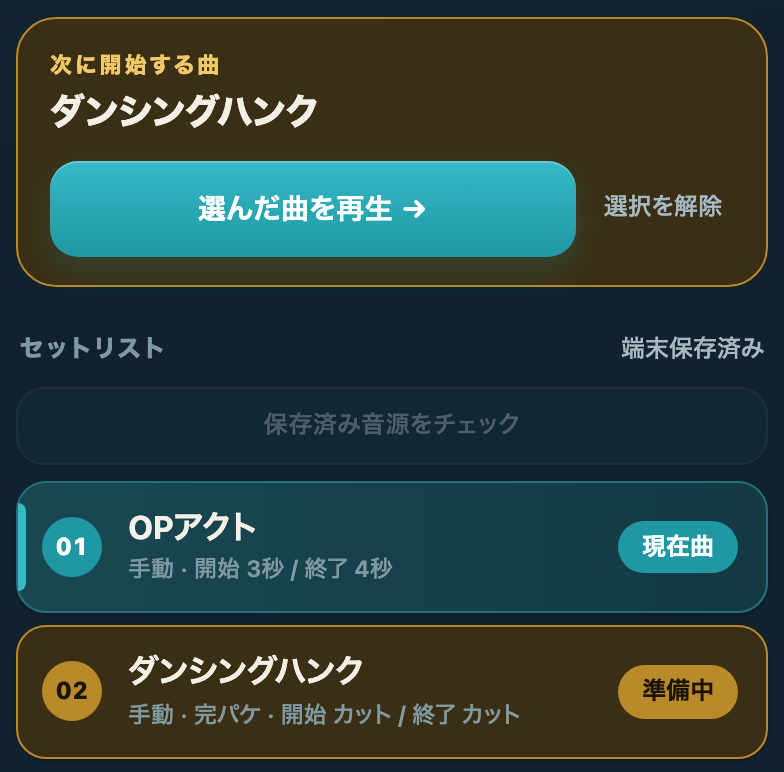
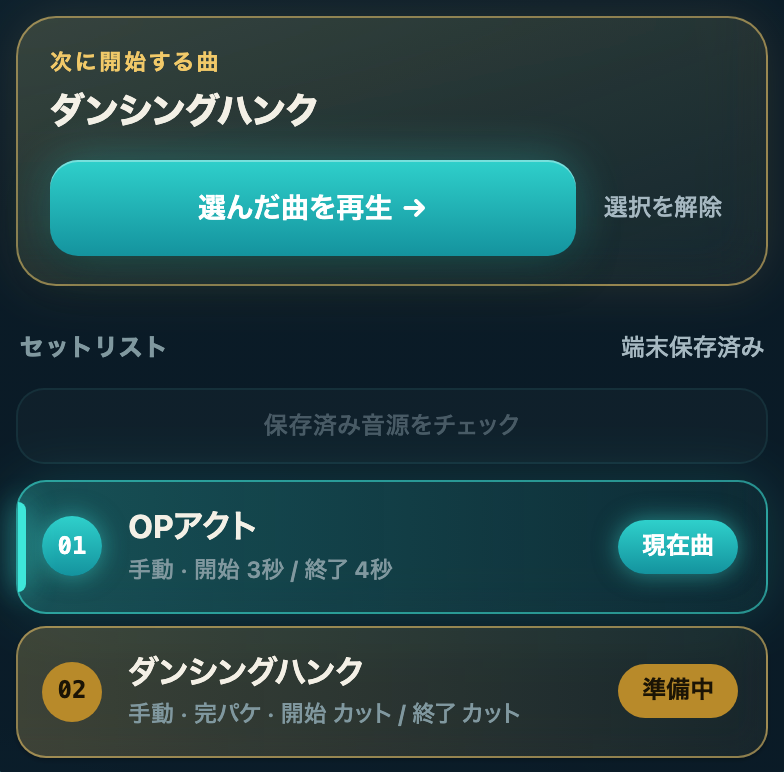
Futuristic glass/glow visual layer, release v118

diff --git a/player.css b/player.css
@@ -246,3 +246,73 @@ footer{font-size:11px;font-weight:600;color:var(--faint);letter-spacing:2.4px;te
  .seconds input[type=number]{width:76px}
  .mode-toggle.seg .opt{min-width:68px;padding:0 10px}
 }
+
+/* ===== futuristic layer (v118): glass panels, cyan glow, hairline borders, mono numerals. Visual only. ===== */
+:root{--cyan:#3ee7da;--cyan-soft:rgba(62,231,218,.14);--glass:rgba(14,34,46,.58);--glass-hi:rgba(255,255,255,.06);--hair:rgba(98,222,220,.22);--hair-strong:rgba(62,231,218,.55);--mono:ui-monospace,"SF Mono",SFMono-Regular,Menlo,Consolas,monospace}
+body:has(#edit:not([hidden])){--glass:rgba(34,56,72,.62);--hair:rgba(130,224,224,.26)}
+body{background:radial-gradient(900px 620px at 90% -10%,rgba(36,206,200,.22),transparent 62%),radial-gradient(820px 640px at -12% 108%,rgba(40,120,210,.20),transparent 60%),var(--bg)}
+body::before{content:"";position:fixed;inset:0;z-index:0;pointer-events:none;background-image:linear-gradient(rgba(130,230,230,.045) 1px,transparent 1px),linear-gradient(90deg,rgba(130,230,230,.045) 1px,transparent 1px);background-size:46px 46px;-webkit-mask-image:radial-gradient(ellipse 80% 60% at 55% 28%,#000 15%,transparent 78%);mask-image:radial-gradient(ellipse 80% 60% at 55% 28%,#000 15%,transparent 78%)}
+main{position:relative;z-index:1}
+/* glass surfaces */
+.panel,.order-panel,.edit-card,.tabs,.banner,.notice,.audio-drop-zone{background:linear-gradient(160deg,var(--glass-hi),rgba(255,255,255,.015)),var(--glass);border:1px solid var(--hair);-webkit-backdrop-filter:blur(16px) saturate(1.35);backdrop-filter:blur(16px) saturate(1.35);box-shadow:inset 0 1px 0 var(--glass-hi),0 14px 38px rgba(0,0,0,.34)}
+.banner.ready{background:linear-gradient(160deg,rgba(62,231,218,.20),rgba(62,231,218,.07));border-color:var(--hair-strong);color:#9af3ec;box-shadow:0 0 22px rgba(62,231,218,.14),inset 0 1px 0 var(--glass-hi)}
+.notice.error{background:linear-gradient(160deg,rgba(255,120,130,.22),rgba(255,120,130,.08));border-color:rgba(255,143,150,.5)}
+.live-player{background:linear-gradient(168deg,rgba(26,66,84,.74) 0%,rgba(10,28,40,.82) 62%);border:1px solid rgba(86,226,220,.30);-webkit-backdrop-filter:blur(18px) saturate(1.3);backdrop-filter:blur(18px) saturate(1.3);box-shadow:0 0 0 1px rgba(62,231,218,.05),0 0 70px rgba(36,200,196,.12),0 26px 64px rgba(0,0,0,.52),inset 0 1px 0 rgba(255,255,255,.08)}
+.live-player::before{height:2px;background:linear-gradient(90deg,transparent 0%,var(--cyan) 35%,#7ff3ff 60%,transparent 100%);box-shadow:0 0 16px var(--cyan);opacity:.9}
+.live-player h1{text-shadow:0 0 30px rgba(62,231,218,.28)}
+/* numerals and small labels */
+.times,.eyebrow,.track .num,.edit-card-header h3,.seconds input[type=number]{font-family:var(--mono)}
+.eyebrow{letter-spacing:2.4px;color:var(--cyan)}
+.panel-title,.section-heading h2,.order-panel h2{text-transform:uppercase;letter-spacing:2px}
+.times{font-size:13px;letter-spacing:.5px}
+/* tabs + nav */
+.tabs{border-radius:16px}
+.tabs .selected{background:linear-gradient(180deg,rgba(62,231,218,.34),rgba(31,152,164,.30));color:#ecfffd;box-shadow:0 0 0 1px var(--hair-strong),0 0 22px rgba(62,231,218,.30),inset 0 1px 0 rgba(255,255,255,.18)}
+.tabs button:hover:not(.selected){background:rgba(255,255,255,.06)}
+/* state chip glow */
+#state[data-state=playing],#state[data-state=fadingIn],#state[data-state=starting]{background:rgba(62,231,218,.14);border-color:var(--hair-strong);color:#8ff1ea;box-shadow:0 0 16px rgba(62,231,218,.28)}
+#state[data-state=playing]::before,#state[data-state=fadingIn]::before,#state[data-state=starting]::before{background:var(--cyan);box-shadow:0 0 8px var(--cyan)}
+/* seek bar */
+.seek-slider::-webkit-slider-runnable-track{background:linear-gradient(90deg,#127f8c,var(--cyan) var(--p),rgba(255,255,255,.14) var(--p));box-shadow:0 0 12px rgba(62,231,218,.22)}
+.seek-slider::-moz-range-progress{background:var(--cyan)}
+.seek-slider::-webkit-slider-thumb{background:#eafffd;border:3px solid var(--cyan);box-shadow:0 0 14px rgba(62,231,218,.8),0 2px 8px rgba(0,0,0,.5)}
+.seek-slider::-moz-range-thumb{background:#eafffd;border:3px solid var(--cyan);box-shadow:0 0 14px rgba(62,231,218,.8)}
+/* transport: ring-style buttons */
+.transport button{background:rgba(255,255,255,.04);color:#e4fbf8;box-shadow:inset 0 0 0 1.5px rgba(120,226,224,.45),0 0 20px rgba(62,231,218,.12),0 8px 18px rgba(0,0,0,.4)}
+.transport button:hover:not(:disabled){background:rgba(62,231,218,.12);box-shadow:inset 0 0 0 1.5px var(--hair-strong),0 0 24px rgba(62,231,218,.28)}
+.transport button.central{background:radial-gradient(circle at 50% 30%,rgba(62,231,218,.34),rgba(7,38,48,.95) 72%);color:#9af7f0;box-shadow:inset 0 0 0 2.5px rgba(86,236,226,.9),0 0 0 9px rgba(62,231,218,.10),0 0 44px rgba(62,231,218,.50),0 20px 44px rgba(0,0,0,.55)}
+.transport button.central:hover:not(:disabled){background:radial-gradient(circle at 50% 30%,rgba(62,231,218,.46),rgba(7,44,54,.95) 72%)}
+.hint b{color:#8ff1ea;text-shadow:0 0 14px rgba(62,231,218,.35)}
+/* buttons */
+.primary{background:linear-gradient(180deg,#2fd0cb 0%,#14939e 100%);color:#fff;box-shadow:inset 0 1px 0 rgba(255,255,255,.35),0 0 24px rgba(62,231,218,.32),0 8px 20px rgba(0,0,0,.35)}
+.primary:hover:not(:disabled){background:linear-gradient(180deg,#46e2dc 0%,#18a3ae 100%)}
+.secondary{background:rgba(255,255,255,.05);box-shadow:inset 0 0 0 1px var(--hair)}
+.secondary:hover:not(:disabled){background:rgba(62,231,218,.10);box-shadow:inset 0 0 0 1px var(--hair-strong)}
+#go[data-ready=true]{background:linear-gradient(160deg,rgba(62,231,218,.22),rgba(62,231,218,.08));color:#9af3ec;box-shadow:inset 0 0 0 1.5px var(--hair-strong),0 0 24px rgba(62,231,218,.22)}
+/* setlist rows */
+.track{background:linear-gradient(160deg,rgba(255,255,255,.055),rgba(255,255,255,.015));border:1px solid var(--hair);-webkit-backdrop-filter:blur(10px);backdrop-filter:blur(10px)}
+.track-select:hover:not(:disabled){background:linear-gradient(160deg,rgba(62,231,218,.12),rgba(255,255,255,.03));border-color:var(--hair-strong)}
+.track.current{background:linear-gradient(90deg,rgba(62,231,218,.26) 0%,rgba(62,231,218,.07) 100%);border-color:var(--hair-strong);box-shadow:0 0 28px rgba(62,231,218,.16)}
+.track.current::before{background:var(--cyan);box-shadow:0 0 14px var(--cyan)}
+.track.current .num,.track.current .select-hint{background:linear-gradient(180deg,#2fd0cb,#14939e);box-shadow:0 0 12px rgba(62,231,218,.5)}
+#selectionPanel{background:linear-gradient(160deg,rgba(241,201,105,.20),rgba(241,201,105,.06));border-color:rgba(241,201,105,.55);box-shadow:0 0 26px rgba(241,201,105,.12)}
+.track-select.queued{background:linear-gradient(90deg,rgba(241,201,105,.22),rgba(241,201,105,.06));border-color:rgba(241,201,105,.55)}
+/* settings controls */
+.mode-toggle.seg{background:rgba(0,0,0,.28);box-shadow:inset 0 1px 4px rgba(0,0,0,.5),inset 0 0 0 1px var(--hair)}
+.mode-toggle.seg .opt.on{background:linear-gradient(180deg,rgba(62,231,218,.55),rgba(24,150,160,.55));color:#fff;box-shadow:0 0 0 1px var(--hair-strong),0 0 16px rgba(62,231,218,.35),inset 0 1px 0 rgba(255,255,255,.25)}
+.mode-toggle.active{background:rgba(62,231,218,.16);border-color:var(--hair-strong);color:#9af3ec;box-shadow:0 0 16px rgba(62,231,218,.22)}
+.seconds input[type=range]::-webkit-slider-runnable-track{background:linear-gradient(90deg,rgba(62,231,218,.28),rgba(255,255,255,.16))}
+.seconds input[type=range]::-webkit-slider-thumb{background:#eafffd;border:3px solid var(--cyan);box-shadow:0 0 14px rgba(62,231,218,.8)}
+.edit-card-header h3,.pill{box-shadow:0 0 12px rgba(62,231,218,.22)}
+.edit-card-header h3{background:linear-gradient(180deg,#2fd0cb,#14939e)}
+.order-handle,.order-step,.list-picker,.reuse-row select,.name-input,.track-name-input,.seconds input[type=number]{border-color:var(--hair)}
+.order-target{box-shadow:0 0 0 2px rgba(62,231,218,.5),0 0 20px rgba(62,231,218,.3)}
+.audio-drop-zone{border:1.5px dashed rgba(98,222,220,.45)}
+.manual-link{border-color:var(--hair-strong);background:rgba(62,231,218,.12);box-shadow:0 0 16px rgba(62,231,218,.2)}
+.logo{box-shadow:0 0 22px rgba(62,231,218,.5)}
+@media(min-width:900px){
+ main{background:linear-gradient(90deg,transparent 287px,rgba(62,231,218,.22) 287px,rgba(62,231,218,.22) 288px,transparent 288px),linear-gradient(90deg,rgba(4,12,18,.72) 288px,transparent 288px)}
+ .library-panel .tabs{background:none;border:0;box-shadow:none;-webkit-backdrop-filter:none;backdrop-filter:none}
+ .library-panel .side-list{background:none;border:0;box-shadow:none;-webkit-backdrop-filter:none;backdrop-filter:none}
+ .library-panel .tabs .selected{box-shadow:0 0 0 1px var(--hair-strong),0 0 22px rgba(62,231,218,.28),inset 0 1px 0 rgba(255,255,255,.18)}
+}

diff --git a/releases/v118/index.html b/releases/v118/index.html
@@ -1,0 +1,27 @@
+<!doctype html><html lang="ja"><head><base href="../../"><meta charset="utf-8"><meta name="viewport" content="width=device-width,initial-scale=1,viewport-fit=cover"><meta name="theme-color" content="#0a1620"><meta name="apple-mobile-web-app-capable" content="yes"><meta name="apple-mobile-web-app-status-bar-style" content="black"><title>SHOW PLAYER</title><link rel="manifest" href="manifest.webmanifest"><link rel="stylesheet" href="player.css?v=118"><link rel="icon" href="icon.svg"><link rel="apple-touch-icon" href="icon-192.png"></head><body><main>
+<header class="top"><div class="brand"><svg class="logo" viewBox="0 0 48 48" aria-hidden="true"><defs><linearGradient id="lg" x1="0" y1="0" x2="1" y2="1"><stop offset="0" stop-color="#23a0ac"/><stop offset="1" stop-color="#115f69"/></linearGradient></defs><rect width="48" height="48" rx="13" fill="url(#lg)"/><path d="M19 14.5v19a1.2 1.2 0 0 0 1.8 1l15.5-9.5a1.2 1.2 0 0 0 0-2L20.800 13.500a1.200 1.200 0 0 0-1.800 1z" fill="#f3f0e8"/></svg><b>SHOW PLAYER</b></div><span class="pill version">1.1.0</span></header>
+<div class="app-grid"><aside class="library-panel"><div class="tabs"><button id="liveTab" class="selected"><svg viewBox="0 0 24 24" aria-hidden="true"><path d="M8 5.2v13.6a1 1 0 0 0 1.5.86l11-6.8a1 1 0 0 0 0-1.72l-11-6.8A1 1 0 0 0 8 5.2z"/></svg>本番画面</button><button id="editTab"><svg viewBox="0 0 24 24" aria-hidden="true"><path d="M4 7h9M19 7h1M4 17h1M11 17h9" fill="none" stroke="currentColor" stroke-width="2" stroke-linecap="round"/><circle cx="16" cy="7" r="2.6" fill="none" stroke="currentColor" stroke-width="2"/><circle cx="8" cy="17" r="2.6" fill="none" stroke="currentColor" stroke-width="2"/></svg>曲・フェード設定</button></div>
+<div class="side-list panel"><label class="panel-title" for="listPicker">セットリスト</label><select id="listPicker" class="list-picker"></select>
+<p id="listVersion" class="small muted"></p>
+<div class="library-actions"><button id="newList" class="secondary">＋ 新規</button><button id="duplicateList" class="secondary">複製</button><button id="deleteList" class="text-danger">削除</button></div>
+</div>
+</aside><div class="workspace"><div id="engineNote" class="banner" hidden></div><div id="offlineStatus" class="banner" role="status">オフライン準備を確認しています…</div>
+<div id="notice" class="notice" role="status">音源を追加して始めてください。</div>
+<section id="live" class="live-player"><div class="preparation" aria-label="本番前の準備"><span id="prepSaved">○ 音源・設定保存</span><span id="prepOffline">○ 画面のオフライン保存</span><span id="prepRemote">○ GO準備</span></div>
+<div class="title-row"><span id="number" class="eyebrow">00 / 00</span><span id="state" class="pill">音源なし</span></div>
+<h1 id="title">音源を選んでください</h1><p id="nextTitle" class="muted">次の曲：—</p>
+<input id="seek" class="seek-slider" type="range" min="0" max="0" step="0.01" value="0" aria-label="再生位置" disabled><p id="seekHint" class="small muted"></p><div class="progress" hidden><div id="progressBar"></div></div><div class="times"><span id="position">0:00</span><span id="duration">0:00</span></div>
+<div class="transport"><button id="previous" class="skip" aria-label="曲頭・前曲"><svg viewBox="0 0 24 24" aria-hidden="true"><path d="M6 5h2.4v14H6zM19 5v14L9 12z"/></svg></button><button id="central" class="central" aria-label="再生・一時停止">▶</button><button id="next" class="skip" aria-label="フェードアウト・次曲"><svg viewBox="0 0 24 24" aria-hidden="true"><path d="M15.6 5H18v14h-2.4zM5 5v14l10-7z"/></svg></button></div>
+<div class="hint"><b id="nextHint">右：再生を開始</b><p id="fadeStatus"></p></div>
+<div class="action-row"><button id="stop" class="secondary"><svg viewBox="0 0 24 24" aria-hidden="true"><rect x="6" y="6" width="12" height="12" rx="2.4"/></svg>停止して曲頭へ</button><button id="go" class="primary">GO · 音を出さずに準備</button></div>
+<div class="remote-row"><button id="releaseRemote" class="text-button">リモコン準備を解除</button><span id="remoteStatus" class="small muted"></span></div>
+<div id="selectionPanel" class="panel" hidden><p class="eyebrow">次に開始する曲</p><h2 id="selectedTitle"></h2><div class="selection-actions"><button id="activateSelected" class="primary">選んだ曲を再生 →</button><button id="cancelSelected" class="text-button">選択を解除</button></div></div>
+<div class="section-heading"><h2>セットリスト</h2><span id="saveStatus" class="small muted">未保存</span></div><button id="audioCheck" class="secondary">保存済み音源をチェック</button><div id="trackList"></div>
+</section>
+<section id="edit" hidden><div class="edit-title"><h2>音源と曲ごとの設定</h2><a class="manual-link" href="manual.html" target="_blank" rel="noopener">使い方マニュアル</a></div><div id="editorSaveStatus" class="banner" role="status">保存状態を確認しています…</div><label class="panel-title" for="listName">セットリスト名</label><input id="listName" class="name-input" type="text" placeholder="ショー名">
+<div id="audioDropZone" class="audio-drop-zone" role="region" aria-label="音源ファイルの取り込み"><p><b>音源をここへドロップ</b></p><label class="primary file-label">＋ 音源を追加<input id="files" type="file" accept="audio/*,.mp3,.wav,.m4a,.aac,.aif,.aiff" multiple hidden></label></div><p id="importStatus" class="small muted"></p><div class="reuse-row"><select id="reusePicker" aria-label="保存済み音源を選択"></select><button id="reuseAdd" class="secondary">保存済み音源を追加</button></div>
+<div class="order-panel"><h2>曲順</h2><div id="orderList"></div><p id="orderStatus" class="small muted" role="status"></p></div><div id="editList"></div>
+<div class="edit-save"><button id="save" class="primary">設定を保存する</button><button id="back" class="secondary">保存して本番画面へ戻る</button><button id="testUnsaved" class="text-button">保存せず本番画面でテスト</button></div></section>
+<footer>SHOW PLAYER · 1.1.0</footer>
+</div></div><audio id="audio" preload="auto" playsinline></audio><audio id="receiver" src="receiver-silence.wav" preload="auto" loop playsinline></audio>
+</main><script type="module" src="player.mjs?v=118"></script></body></html>

diff --git a/recover.html b/recover.html
@@ -1,4 +1,4 @@
-<!doctype html><html lang="ja"><head><meta charset="utf-8"><meta name="viewport" content="width=device-width,initial-scale=1"><title>SHOW PLAYERを開く</title><style>body{margin:0;background:#f3f0e8;color:#202e3a;font:16px/1.7 -apple-system,sans-serif}main{max-width:540px;margin:60px auto;padding:25px}h1{font-size:28px}p{color:#3d4b57}a,button{display:block;width:100%;box-sizing:border-box;background:#167b86;color:#ffffff;padding:16px;border:0;border-radius:12px;text-align:center;font:inherit;font-weight:bold;text-decoration:none;margin:18px 0}small{color:#5d6a74}</style></head><body><main><small>SHOW PLAYER · 1.1.0 · 更新用ページ</small><h1>SHOW PLAYERを開く</h1><p>通常の入口でエラーが出る場合は、こちらから開いてください。保存した音源や設定は削除しません。</p><a id="open" href="releases/v117/index.html">アプリを開く →</a><p id="status">初回はネット接続をオンにしてください。</p><small>まだ開けない場合は、このリンクをSafariでも試してください。通常のブラウザから開くだけで利用できます。</small></main><script>
+<!doctype html><html lang="ja"><head><meta charset="utf-8"><meta name="viewport" content="width=device-width,initial-scale=1"><title>SHOW PLAYERを開く</title><style>body{margin:0;background:#f3f0e8;color:#202e3a;font:16px/1.7 -apple-system,sans-serif}main{max-width:540px;margin:60px auto;padding:25px}h1{font-size:28px}p{color:#3d4b57}a,button{display:block;width:100%;box-sizing:border-box;background:#167b86;color:#ffffff;padding:16px;border:0;border-radius:12px;text-align:center;font:inherit;font-weight:bold;text-decoration:none;margin:18px 0}small{color:#5d6a74}</style></head><body><main><small>SHOW PLAYER · 1.1.0 · 更新用ページ</small><h1>SHOW PLAYERを開く</h1><p>通常の入口でエラーが出る場合は、こちらから開いてください。保存した音源や設定は削除しません。</p><a id="open" href="releases/v118/index.html">アプリを開く →</a><p id="status">初回はネット接続をオンにしてください。</p><small>まだ開けない場合は、このリンクをSafariでも試してください。通常のブラウザから開くだけで利用できます。</small></main><script>
 const link=document.getElementById('open'),status=document.getElementById('status');
 link.removeAttribute('href');link.style.opacity='.5';link.textContent='更新を確認中…';
 (async()=>{
@@ -14,6 +14,6 @@ link.removeAttribute('href');link.style.opacity='.5';link.textContent='更新を
   }
   status.textContent='更新しました。アプリで「WEB 1.1.0」と表示されることを確認してください。';
  }catch(e){status.textContent='更新を完了できませんでした。ネット接続を確認し、このページを再読み込みしてください。';}
- link.href='releases/v117/index.html';link.style.opacity='1';link.textContent='アプリを開く →';
+ link.href='releases/v118/index.html';link.style.opacity='1';link.textContent='アプリを開く →';
 })();
 </script></body></html>

diff --git a/app.html b/app.html
@@ -1,4 +1,4 @@
-<!doctype html><html lang="ja"><head><meta charset="utf-8"><meta name="viewport" content="width=device-width,initial-scale=1,viewport-fit=cover"><meta name="theme-color" content="#0a1620"><meta name="apple-mobile-web-app-capable" content="yes"><meta name="apple-mobile-web-app-status-bar-style" content="black"><title>SHOW PLAYER</title><link rel="manifest" href="manifest.webmanifest"><link rel="stylesheet" href="player.css?v=117"><link rel="icon" href="icon.svg"><link rel="apple-touch-icon" href="icon-192.png"></head><body><main>
+<!doctype html><html lang="ja"><head><meta charset="utf-8"><meta name="viewport" content="width=device-width,initial-scale=1,viewport-fit=cover"><meta name="theme-color" content="#0a1620"><meta name="apple-mobile-web-app-capable" content="yes"><meta name="apple-mobile-web-app-status-bar-style" content="black"><title>SHOW PLAYER</title><link rel="manifest" href="manifest.webmanifest"><link rel="stylesheet" href="player.css?v=118"><link rel="icon" href="icon.svg"><link rel="apple-touch-icon" href="icon-192.png"></head><body><main>
 <header class="top"><div class="brand"><svg class="logo" viewBox="0 0 48 48" aria-hidden="true"><defs><linearGradient id="lg" x1="0" y1="0" x2="1" y2="1"><stop offset="0" stop-color="#23a0ac"/><stop offset="1" stop-color="#115f69"/></linearGradient></defs><rect width="48" height="48" rx="13" fill="url(#lg)"/><path d="M19 14.5v19a1.2 1.2 0 0 0 1.8 1l15.5-9.5a1.2 1.2 0 0 0 0-2L20.800 13.500a1.200 1.200 0 0 0-1.800 1z" fill="#f3f0e8"/></svg><b>SHOW PLAYER</b></div><span class="pill version">1.1.0</span></header>
 <div class="app-grid"><aside class="library-panel"><div class="tabs"><button id="liveTab" class="selected"><svg viewBox="0 0 24 24" aria-hidden="true"><path d="M8 5.2v13.6a1 1 0 0 0 1.5.86l11-6.8a1 1 0 0 0 0-1.72l-11-6.8A1 1 0 0 0 8 5.2z"/></svg>本番画面</button><button id="editTab"><svg viewBox="0 0 24 24" aria-hidden="true"><path d="M4 7h9M19 7h1M4 17h1M11 17h9" fill="none" stroke="currentColor" stroke-width="2" stroke-linecap="round"/><circle cx="16" cy="7" r="2.6" fill="none" stroke="currentColor" stroke-width="2"/><circle cx="8" cy="17" r="2.6" fill="none" stroke="currentColor" stroke-width="2"/></svg>曲・フェード設定</button></div>
 <div class="side-list panel"><label class="panel-title" for="listPicker">セットリスト</label><select id="listPicker" class="list-picker"></select>
@@ -24,4 +24,4 @@
 <div class="edit-save"><button id="save" class="primary">設定を保存する</button><button id="back" class="secondary">保存して本番画面へ戻る</button><button id="testUnsaved" class="text-button">保存せず本番画面でテスト</button></div></section>
 <footer>SHOW PLAYER · 1.1.0</footer>
 </div></div><audio id="audio" preload="auto" playsinline></audio><audio id="receiver" src="receiver-silence.wav" preload="auto" loop playsinline></audio>
-</main><script type="module" src="player.mjs?v=117"></script></body></html>
+</main><script type="module" src="player.mjs?v=118"></script></body></html>

diff --git a/index.html b/index.html
@@ -1,4 +1,4 @@
-<!doctype html><html lang="ja"><head><meta charset="utf-8"><meta name="viewport" content="width=device-width,initial-scale=1,viewport-fit=cover"><meta name="theme-color" content="#0a1620"><meta name="apple-mobile-web-app-capable" content="yes"><meta name="apple-mobile-web-app-status-bar-style" content="black"><title>SHOW PLAYER</title><link rel="manifest" href="manifest.webmanifest"><link rel="stylesheet" href="player.css?v=117"><link rel="icon" href="icon.svg"><link rel="apple-touch-icon" href="icon-192.png"></head><body><main>
+<!doctype html><html lang="ja"><head><meta charset="utf-8"><meta name="viewport" content="width=device-width,initial-scale=1,viewport-fit=cover"><meta name="theme-color" content="#0a1620"><meta name="apple-mobile-web-app-capable" content="yes"><meta name="apple-mobile-web-app-status-bar-style" content="black"><title>SHOW PLAYER</title><link rel="manifest" href="manifest.webmanifest"><link rel="stylesheet" href="player.css?v=118"><link rel="icon" href="icon.svg"><link rel="apple-touch-icon" href="icon-192.png"></head><body><main>
 <header class="top"><div class="brand"><svg class="logo" viewBox="0 0 48 48" aria-hidden="true"><defs><linearGradient id="lg" x1="0" y1="0" x2="1" y2="1"><stop offset="0" stop-color="#23a0ac"/><stop offset="1" stop-color="#115f69"/></linearGradient></defs><rect width="48" height="48" rx="13" fill="url(#lg)"/><path d="M19 14.5v19a1.2 1.2 0 0 0 1.8 1l15.5-9.5a1.2 1.2 0 0 0 0-2L20.800 13.500a1.200 1.200 0 0 0-1.800 1z" fill="#f3f0e8"/></svg><b>SHOW PLAYER</b></div><span class="pill version">1.1.0</span></header>
 <div class="app-grid"><aside class="library-panel"><div class="tabs"><button id="liveTab" class="selected"><svg viewBox="0 0 24 24" aria-hidden="true"><path d="M8 5.2v13.6a1 1 0 0 0 1.5.86l11-6.8a1 1 0 0 0 0-1.72l-11-6.8A1 1 0 0 0 8 5.2z"/></svg>本番画面</button><button id="editTab"><svg viewBox="0 0 24 24" aria-hidden="true"><path d="M4 7h9M19 7h1M4 17h1M11 17h9" fill="none" stroke="currentColor" stroke-width="2" stroke-linecap="round"/><circle cx="16" cy="7" r="2.6" fill="none" stroke="currentColor" stroke-width="2"/><circle cx="8" cy="17" r="2.6" fill="none" stroke="currentColor" stroke-width="2"/></svg>曲・フェード設定</button></div>
 <div class="side-list panel"><label class="panel-title" for="listPicker">セットリスト</label><select id="listPicker" class="list-picker"></select>
@@ -24,4 +24,4 @@
 <div class="edit-save"><button id="save" class="primary">設定を保存する</button><button id="back" class="secondary">保存して本番画面へ戻る</button><button id="testUnsaved" class="text-button">保存せず本番画面でテスト</button></div></section>
 <footer>SHOW PLAYER · 1.1.0</footer>
 </div></div><audio id="audio" preload="auto" playsinline></audio><audio id="receiver" src="receiver-silence.wav" preload="auto" loop playsinline></audio>
-</main><script type="module" src="player.mjs?v=117"></script></body></html>
+</main><script type="module" src="player.mjs?v=118"></script></body></html>

diff --git a/sw.js b/sw.js
@@ -1,6 +1,6 @@
 const BASE=new URL('./',self.location).pathname;
-const CACHE='show-player-offline-v117';
-const FILES=['./releases/v117/index.html','./','./index.html','./app.html','./player.css?v=117','./player.mjs?v=117','./audio-mode.mjs?v=117','./buffer-engine.mjs?v=117','./transport.mjs?v=117','./storage.mjs?v=117','./repository.mjs?v=117','./transfer.mjs?v=117','./manifest.webmanifest','./manual.html','./manual.css?v=117','./manual/status.png','./manual/player.png','./manual/card1.png','./manual/card2.png','./manual/setlist.png','./manual/list.png','./manual/import.png','./manual/order.png','./manual/save.png','./icon.svg','./icon-192.png','./icon-512.png','./receiver-silence.wav','./demo-a.wav','./demo-b.wav'];
+const CACHE='show-player-offline-v118';
+const FILES=['./releases/v118/index.html','./','./index.html','./app.html','./player.css?v=118','./player.mjs?v=118','./audio-mode.mjs?v=118','./buffer-engine.mjs?v=118','./transport.mjs?v=118','./storage.mjs?v=118','./repository.mjs?v=118','./transfer.mjs?v=118','./manifest.webmanifest','./manual.html','./manual.css?v=118','./manual/status.png','./manual/player.png','./manual/card1.png','./manual/card2.png','./manual/setlist.png','./manual/list.png','./manual/import.png','./manual/order.png','./manual/save.png','./icon.svg','./icon-192.png','./icon-512.png','./receiver-silence.wav','./demo-a.wav','./demo-b.wav'];
 // Safari rejects redirected cached responses for navigation. Reconstruct every
 // response served by this worker, including caches created by older versions.
 function cleanResponse(response){if(!response||response.status===0)throw Error('Unreadable response');const headers=new Headers(response.headers);headers.delete('Content-Encoding');headers.delete('Content-Length');return new Response(response.clone().body,{status:response.status,statusText:response.statusText,headers});}

diff --git a/manual.html b/manual.html
@@ -1,4 +1,4 @@
-<!doctype html><html lang="ja"><head><meta charset="utf-8"><meta name="viewport" content="width=device-width,initial-scale=1,viewport-fit=cover"><meta name="theme-color" content="#f3f0e8"><title>SHOW PLAYER 使い方マニュアル</title><link rel="icon" href="icon.svg"><link rel="stylesheet" href="manual.css?v=117"></head><body><main>
+<!doctype html><html lang="ja"><head><meta charset="utf-8"><meta name="viewport" content="width=device-width,initial-scale=1,viewport-fit=cover"><meta name="theme-color" content="#f3f0e8"><title>SHOW PLAYER 使い方マニュアル</title><link rel="icon" href="icon.svg"><link rel="stylesheet" href="manual.css?v=118"></head><body><main>
 <div class="bar"><span class="brand"><svg class="logo" viewBox="0 0 48 48" aria-hidden="true"><defs><linearGradient id="lg" x1="0" y1="0" x2="1" y2="1"><stop offset="0" stop-color="#23a0ac"/><stop offset="1" stop-color="#115f69"/></linearGradient></defs><rect width="48" height="48" rx="13" fill="url(#lg)"/><path d="M19 14.5v19a1.2 1.2 0 0 0 1.8 1l15.5-9.500a1.2 1.2 0 0 0 0-2L20.800 13.500a1.200 1.200 0 0 0-1.800 1z" fill="#f3f0e8"/></svg><b>SHOW PLAYER</b></span><a class="back" href="app.html">← アプリに戻る</a></div>
 <h1>使い方マニュアル</h1>
 <p class="lead">ショーの音楽を、リモコン1つで流すためのアプリです。画面には操作に必要なものだけを置き、説明はここにまとめています。画像は実際の画面です（曲名やフェードの数字はサンプル）。</p>
